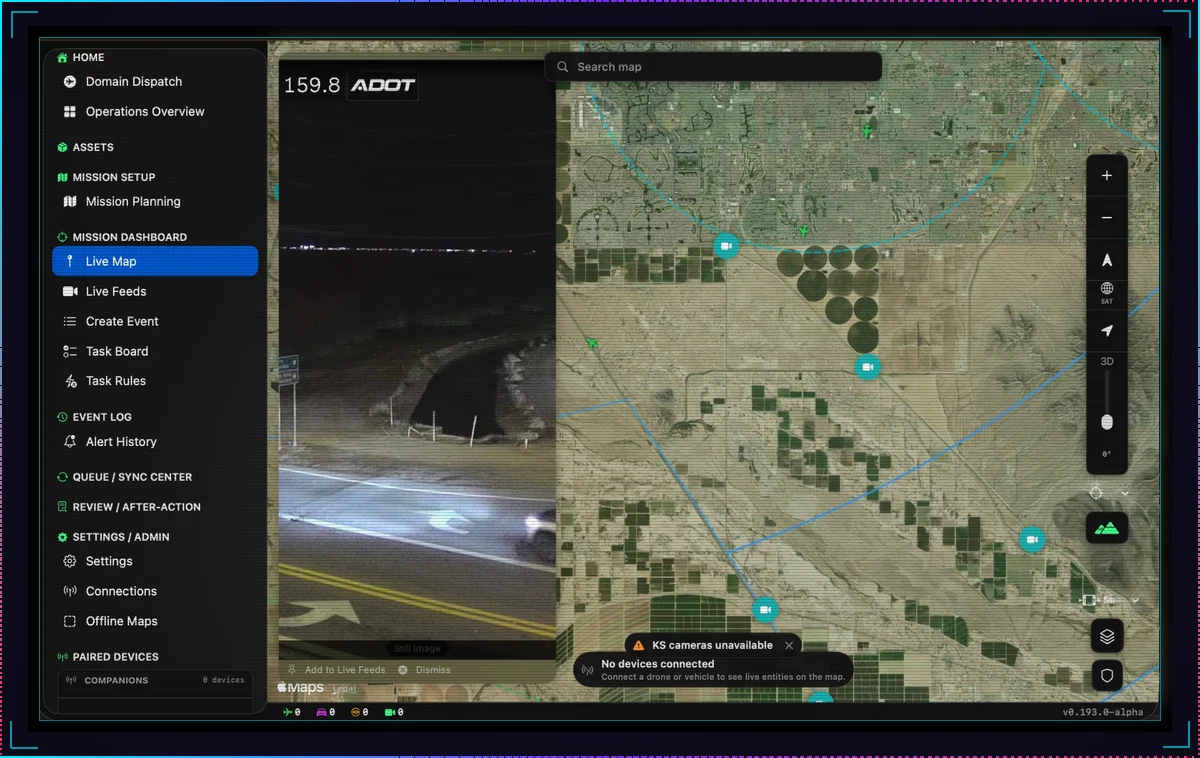
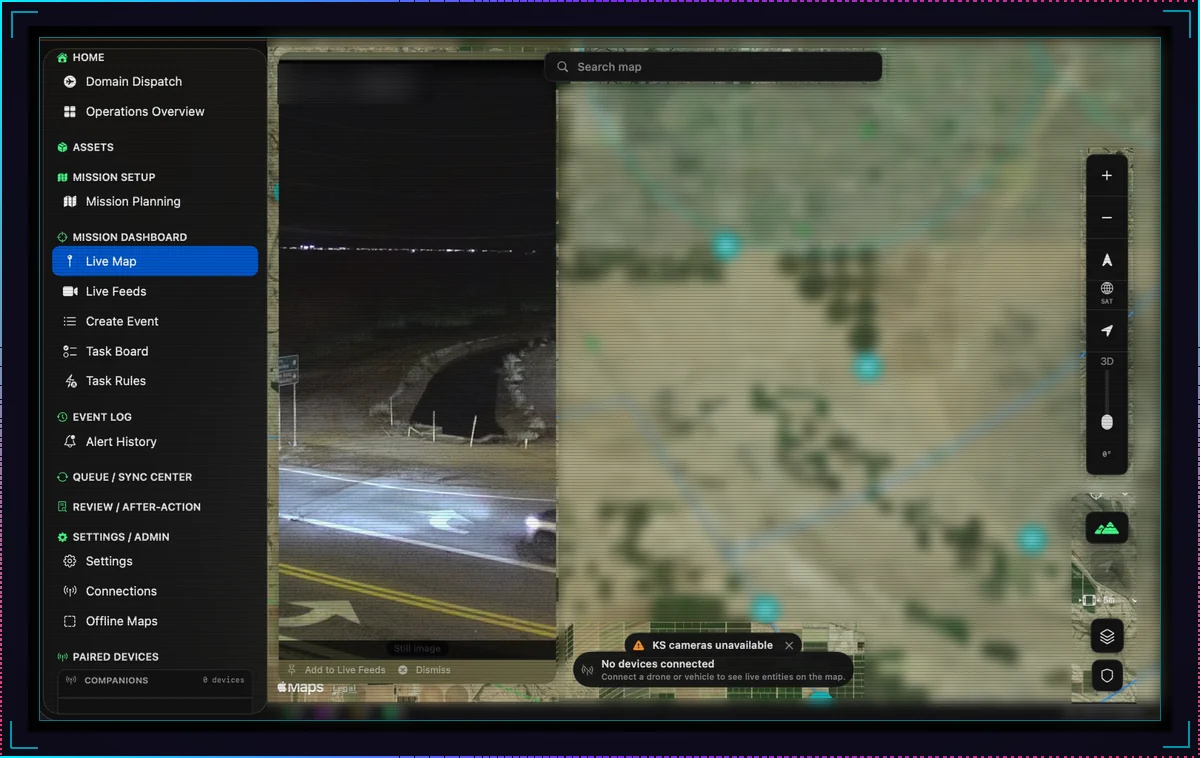
Blur the basemap and obscure the camera agency badge in the operations captures

diff --git a/gen/work_shots.py b/gen/work_shots.py
@@ -56,6 +56,44 @@ def edge(img):
     return img
 
 
+# Location masking for the operations captures. The console is pointed at a real place,
+# so the satellite basemap is blurred and the camera's agency badge and mile marker are
+# obscured. "keep" rectangles are pasted back sharp afterwards so the interface stays
+# readable: these are overlay controls that sit on top of the map.
+MASKS = {
+    "dd-map.webp": {
+        "blur": [(405, 0, 2000, 1217)],
+        "redact": [(424, 46, 702, 118)],
+        "keep": [(405, 16, 926, 1186), (898, 18, 1512, 82), (1858, 196, 1952, 792),
+                 (1842, 812, 1958, 1188), (938, 1042, 1472, 1178)],
+    },
+    "dd-planning.webp": {
+        "blur": [(405, 38, 1350, 1257)],
+        "redact": [],
+        "keep": [(418, 52, 1182, 122), (1188, 236, 1292, 842),
+                 (1158, 828, 1312, 1218), (1032, 1088, 1368, 1162),
+                 (405, 1166, 548, 1224)],
+    },
+}
+BLUR_R = 9
+
+
+def mask(im, name):
+    cfg = MASKS.get(name)
+    if not cfg:
+        return im
+    im = im.convert("RGB")
+    for box in cfg["blur"]:
+        im.paste(im.crop(box).filter(ImageFilter.GaussianBlur(BLUR_R)), box[:2])
+    sharp = Image.open(os.path.join(SHOTS, name)).convert("RGB")
+    for box in cfg["keep"]:
+        im.paste(sharp.crop(box), box[:2])
+    for box in cfg["redact"]:
+        patch = im.crop(box).filter(ImageFilter.GaussianBlur(22))
+        im.paste(Image.blend(patch, Image.new("RGB", patch.size, (14, 14, 18)), 0.45), box[:2])
+    return im
+
+
 def treat(im, width):
     """Scale a capture, veil it with scanlines, and give it a cyan edge and glow."""
     h = round(im.height * width / im.width)
@@ -77,7 +115,7 @@ def treat(im, width):
 
 def panel(rows):
     """rows: list of lists of (path, width). Each row is centred."""
-    tiles = [[treat(Image.open(os.path.join(SHOTS, p)), w) for p, w in row] for row in rows]
+    tiles = [[treat(mask(Image.open(os.path.join(SHOTS, p)), p), w) for p, w in row] for row in rows]
     heights = [max(t.height for t in row) for row in tiles]
     H = PAD * 2 + sum(heights) + GAP * (len(tiles) - 1)
     img = Image.new("RGB", (W, H), PANEL)

diff --git a/README.md b/README.md
@@ -110,7 +110,8 @@ after-action review.
 
 Owned assets and public infrastructure share one map. Above, public traffic cameras sit
 beside the operator's own entities, and any camera opens in place and can be pinned to a
-live feed panel. Everything assumes the link will drop: offline map packs, a sync queue that
+live feed panel. The basemap is blurred in these captures, and the camera's agency badge
+obscured, because the console is pointed at a real place. Everything assumes the link will drop: offline map packs, a sync queue that
 drains when the connection returns, and a status bar that stays honest about what is
 connected and what is not.
 
